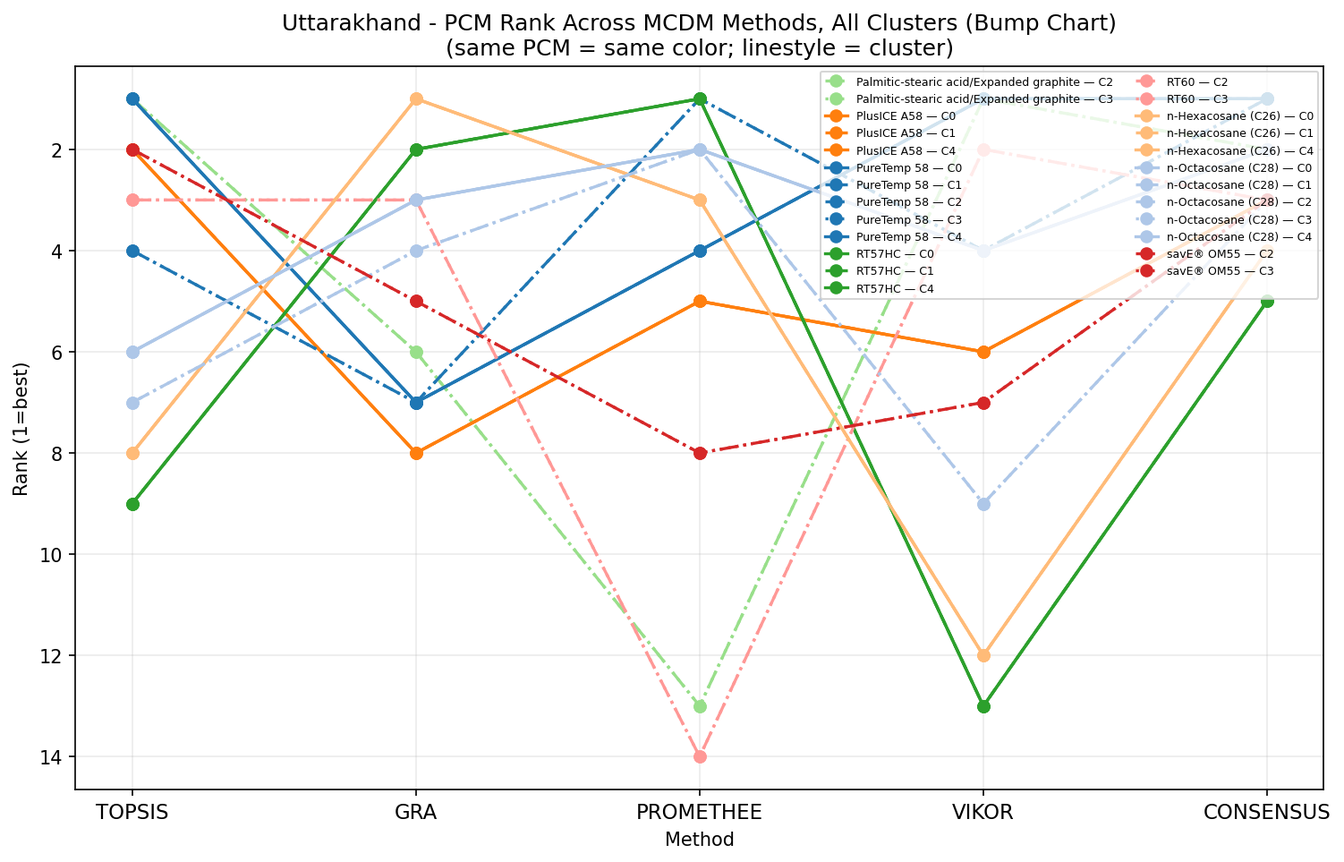
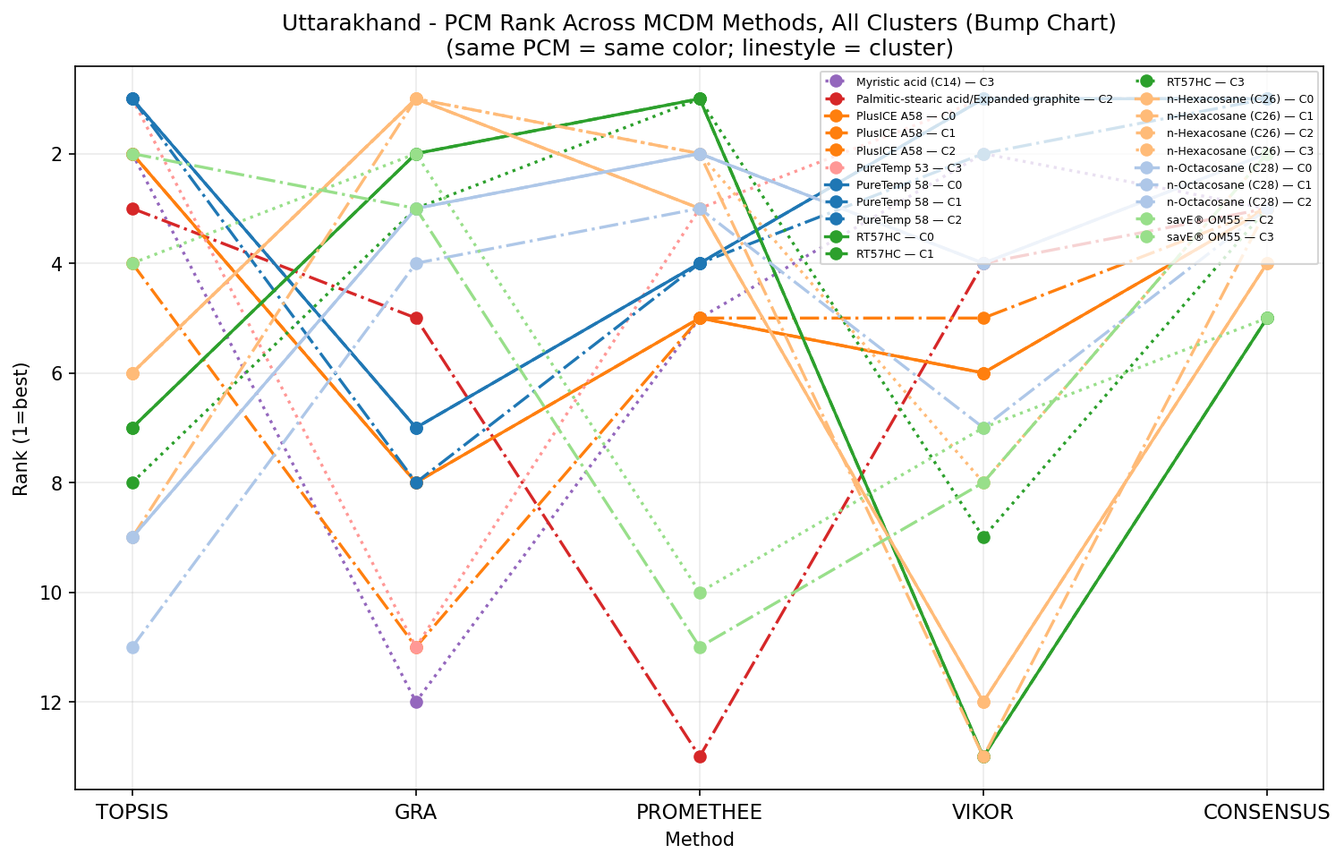
chore(plots): update Uttarakhand all-cluster MCDM bump chart (K=4)

diff --git a/public/plots/uttarakhand/07_bump_chart_ranks.html b/public/plots/uttarakhand/07_bump_chart_ranks.html
@@ -6,6 +6,6 @@
 </head>
 <body>
     <div style="height:550px; width:100%;">                        <script>window.PlotlyConfig = {MathJaxConfig: 'local'};</script>
-        <script charset="utf-8" src="https://cdn.plot.ly/plotly-4.0.0.min.js" integrity="sha256-FEYfO0yRyLtZCpnW0Dw/0DHKQO7Afrq3ml4+rBB818o=" crossorigin="anonymous"></script>                <div id="c2ea9947-62c5-475e-9ff9-8340a1033bda" class="plotly-graph-div" style="height:100%; width:100%;"></div>            <script>                window.PLOTLYENV=window.PLOTLYENV || {};                                if (document.getElementById("c2ea9947-62c5-475e-9ff9-8340a1033bda")) {                    Plotly.newPlot(                        "c2ea9947-62c5-475e-9ff9-8340a1033bda",                        [{"customdata":[["0","PureTemp 58"],["0","PureTemp 58"],["0","PureTemp 58"],["0","PureTemp 58"],["0","PureTemp 58"]],"hovertemplate":"Name=%{customdata[1]}\u003cbr\u003eSeries=PureTemp 58 — C0\u003cbr\u003eMethod=%{x}\u003cbr\u003eRank=%{y}\u003cbr\u003eCluster=%{customdata[0]}\u003cextra\u003e\u003c\u002fextra\u003e","legendgroup":"PureTemp 58","line":{"color":"#FD3216","dash":"solid"},"marker":{"symbol":"circle"},"mode":"lines+markers","name":"PureTemp 58","orientation":"v","showlegend":true,"x":["TOPSIS","GRA","PROMETHEE","VIKOR","CONSENSUS"],"xaxis":"x","y":{"dtype":"i1","bdata":"AQcEAQE="},"yaxis":"y","type":"scatter"},{"customdata":[["1","PureTemp 58"],["1","PureTemp 58"],["1","PureTemp 58"],["1","PureTemp 58"],["1","PureTemp 58"]],"hovertemplate":"Name=%{customdata[1]}\u003cbr\u003eSeries=PureTemp 58 — C1\u003cbr\u003eMethod=%{x}\u003cbr\u003eRank=%{y}\u003cbr\u003eCluster=%{customdata[0]}\u003cextra\u003e\u003c\u002fextra\u003e","legendgroup":"PureTemp 58","line":{"color":"#FD3216","dash":"solid"},"marker":{"symbol":"circle"},"mode":"lines+markers","name":"PureTemp 58","orientation":"v","showlegend":false,"x":["TOPSIS","GRA","PROMETHEE","VIKOR","CONSENSUS"],"xaxis":"x","y":{"dtype":"i1","bdata":"AQcEAQE="},"yaxis":"y","type":"scatter"},{"customdata":[["2","PureTemp 58"],["2","PureTemp 58"],["2","PureTemp 58"],["2","PureTemp 58"],["2","PureTemp 58"]],"hovertemplate":"Name=%{customdata[1]}\u003cbr\u003eSeries=PureTemp 58 — C2\u003cbr\u003eMethod=%{x}\u003cbr\u003eRank=%{y}\u003cbr\u003eCluster=%{customdata[0]}\u003cextra\u003e\u003c\u002fextra\u003e","legendgroup":"PureTemp 58","line":{"color":"#FD3216","dash":"solid"},"marker":{"symbol":"circle"},"mode":"lines+markers","name":"PureTemp 58","orientation":"v","showlegend":false,"x":["TOPSIS","GRA","PROMETHEE","VIKOR","CONSENSUS"],"xaxis":"x","y":{"dtype":"i1","bdata":"BAcBBAE="},"yaxis":"y","type":"scatter"},{"customdata":[["3","PureTemp 58"],["3","PureTemp 58"],["3","PureTemp 58"],["3","PureTemp 58"],["3","PureTemp 58"]],"hovertemplate":"Name=%{customdata[1]}\u003cbr\u003eSeries=PureTemp 58 — C3\u003cbr\u003eMethod=%{x}\u003cbr\u003eRank=%{y}\u003cbr\u003eCluster=%{customdata[0]}\u003cextra\u003e\u003c\u002fextra\u003e","legendgroup":"PureTemp 58","line":{"color":"#FD3216","dash":"solid"},"marker":{"symbol":"circle"},"mode":"lines+markers","name":"PureTemp 58","orientation":"v","showlegend":false,"x":["TOPSIS","GRA","PROMETHEE","VIKOR","CONSENSUS"],"xaxis":"x","y":{"dtype":"i1","bdata":"BAcBBAE="},"yaxis":"y","type":"scatter"},{"customdata":[["4","PureTemp 58"],["4","PureTemp 58"],["4","PureTemp 58"],["4","PureTemp 58"],["4","PureTemp 58"]],"hovertemplate":"Name=%{customdata[1]}\u003cbr\u003eSeries=PureTemp 58 — C4\u003cbr\u003eMethod=%{x}\u003cbr\u003eRank=%{y}\u003cbr\u003eCluster=%{customdata[0]}\u003cextra\u003e\u003c\u002fextra\u003e","legendgroup":"PureTemp 58","line":{"color":"#FD3216","dash":"solid"},"marker":{"symbol":"circle"},"mode":"lines+markers","name":"PureTemp 58","orientation":"v","showlegend":false,"x":["TOPSIS","GRA","PROMETHEE","VIKOR","CONSENSUS"],"xaxis":"x","y":{"dtype":"i1","bdata":"AQcEAQE="},"yaxis":"y","type":"scatter"},{"customdata":[["0","n-Octacosane (C28)"],["0","n-Octacosane (C28)"],["0","n-Octacosane (C28)"],["0","n-Octacosane (C28)"],["0","n-Octacosane (C28)"]],"hovertemplate":"Name=%{customdata[1]}\u003cbr\u003eSeries=n-Octacosane (C28) — C0\u003cbr\u003eMethod=%{x}\u003cbr\u003eRank=%{y}\u003cbr\u003eCluster=%{customdata[0]}\u003cextra\u003e\u003c\u002fextra\u003e","legendgroup":"n-Octacosane (C28)","line":{"color":"#00FE35","dash":"solid"},"marker":{"symbol":"circle"},"mode":"lines+markers","name":"n-Octacosane (C28)","orientation":"v","showlegend":true,"x":["TOPSIS","GRA","PROMETHEE","VIKOR","CONSENSUS"],"xaxis":"x","y":{"dtype":"i1","bdata":"BgMCBAI="},"yaxis":"y","type":"scatter"},{"customdata":[["1","n-Octacosane (C28)"],["1","n-Octacosane (C28)"],["1","n-Octacosane (C28)"],["1","n-Octacosane (C28)"],["1","n-Octacosane (C28)"]],"hovertemplate":"Name=%{customdata[1]}\u003cbr\u003eSeries=n-Octacosane (C28) — C1\u003cbr\u003eMethod=%{x}\u003cbr\u003eRank=%{y}\u003cbr\u003eCluster=%{customdata[0]}\u003cextra\u003e\u003c\u002fextra\u003e","legendgroup":"n-Octacosane (C28)","line":{"color":"#00FE35","dash":"solid"},"marker":{"symbol":"circle"},"mode":"lines+markers","name":"n-Octacosane (C28)","orientation":"v","showlegend":false,"x":["TOPSIS","GRA","PROMETHEE","VIKOR","CONSENSUS"],"xaxis":"x","y":{"dtype":"i1","bdata":"BgMCBAI="},"yaxis":"y","type":"scatter"},{"customdata":[["2","n-Octacosane (C28)"],["2","n-Octacosane (C28)"],["2","n-Octacosane (C28)"],["2","n-Octacosane (C28)"],["2","n-Octacosane (C28)"]],"hovertemplate":"Name=%{customdata[1]}\u003cbr\u003eSeries=n-Octacosane (C28) — C2\u003cbr\u003eMethod=%{x}\u003cbr\u003eRank=%{y}\u003cbr\u003eCluster=%{customdata[0]}\u003cextra\u003e\u003c\u002fextra\u003e","legendgroup":"n-Octacosane (C28)","line":{"color":"#00FE35","dash":"solid"},"marker":{"symbol":"circle"},"mode":"lines+markers","name":"n-Octacosane (C28)","orientation":"v","showlegend":false,"x":["TOPSIS","GRA","PROMETHEE","VIKOR","CONSENSUS"],"xaxis":"x","y":{"dtype":"i1","bdata":"BwQCCQM="},"yaxis":"y","type":"scatter"},{"customdata":[["3","n-Octacosane (C28)"],["3","n-Octacosane (C28)"],["3","n-Octacosane (C28)"],["3","n-Octacosane (C28)"],["3","n-Octacosane (C28)"]],"hovertemplate":"Name=%{customdata[1]}\u003cbr\u003eSeries=n-Octacosane (C28) — C3\u003cbr\u003eMethod=%{x}\u003cbr\u003eRank=%{y}\u003cbr\u003eCluster=%{customdata[0]}\u003cextra\u003e\u003c\u002fextra\u003e","legendgroup":"n-Octacosane (C28)","line":{"color":"#00FE35","dash":"solid"},"marker":{"symbol":"circle"},"mode":"lines+markers","name":"n-Octacosane (C28)","orientation":"v","showlegend":false,"x":["TOPSIS","GRA","PROMETHEE","VIKOR","CONSENSUS"],"xaxis":"x","y":{"dtype":"i1","bdata":"BwQCCQM="},"yaxis":"y","type":"scatter"},{"customdata":[["4","n-Octacosane (C28)"],["4","n-Octacosane (C28)"],["4","n-Octacosane (C28)"],["4","n-Octacosane (C28)"],["4","n-Octacosane (C28)"]],"hovertemplate":"Name=%{customdata[1]}\u003cbr\u003eSeries=n-Octacosane (C28) — C4\u003cbr\u003eMethod=%{x}\u003cbr\u003eRank=%{y}\u003cbr\u003eCluster=%{customdata[0]}\u003cextra\u003e\u003c\u002fextra\u003e","legendgroup":"n-Octacosane (C28)","line":{"color":"#00FE35","dash":"solid"},"marker":{"symbol":"circle"},"mode":"lines+markers","name":"n-Octacosane (C28)","orientation":"v","showlegend":false,"x":["TOPSIS","GRA","PROMETHEE","VIKOR","CONSENSUS"],"xaxis":"x","y":{"dtype":"i1","bdata":"BgMCBAI="},"yaxis":"y","type":"scatter"},{"customdata":[["0","PlusICE A58"],["0","PlusICE A58"],["0","PlusICE A58"],["0","PlusICE A58"],["0","PlusICE A58"]],"hovertemplate":"Name=%{customdata[1]}\u003cbr\u003eSeries=PlusICE A58 — C0\u003cbr\u003eMethod=%{x}\u003cbr\u003eRank=%{y}\u003cbr\u003eCluster=%{customdata[0]}\u003cextra\u003e\u003c\u002fextra\u003e","legendgroup":"PlusICE A58","line":{"color":"#6A76FC","dash":"solid"},"marker":{"symbol":"circle"},"mode":"lines+markers","name":"PlusICE A58","orientation":"v","showlegend":true,"x":["TOPSIS","GRA","PROMETHEE","VIKOR","CONSENSUS"],"xaxis":"x","y":{"dtype":"i1","bdata":"AggFBgM="},"yaxis":"y","type":"scatter"},{"customdata":[["1","PlusICE A58"],["1","PlusICE A58"],["1","PlusICE A58"],["1","PlusICE A58"],["1","PlusICE A58"]],"hovertemplate":"Name=%{customdata[1]}\u003cbr\u003eSeries=PlusICE A58 — C1\u003cbr\u003eMethod=%{x}\u003cbr\u003eRank=%{y}\u003cbr\u003eCluster=%{customdata[0]}\u003cextra\u003e\u003c\u002fextra\u003e","legendgroup":"PlusICE A58","line":{"color":"#6A76FC","dash":"solid"},"marker":{"symbol":"circle"},"mode":"lines+markers","name":"PlusICE A58","orientation":"v","showlegend":false,"x":["TOPSIS","GRA","PROMETHEE","VIKOR","CONSENSUS"],"xaxis":"x","y":{"dtype":"i1","bdata":"AggFBgM="},"yaxis":"y","type":"scatter"},{"customdata":[["4","PlusICE A58"],["4","PlusICE A58"],["4","PlusICE A58"],["4","PlusICE A58"],["4","PlusICE A58"]],"hovertemplate":"Name=%{customdata[1]}\u003cbr\u003eSeries=PlusICE A58 — C4\u003cbr\u003eMethod=%{x}\u003cbr\u003eRank=%{y}\u003cbr\u003eCluster=%{customdata[0]}\u003cextra\u003e\u003c\u002fextra\u003e","legendgroup":"PlusICE A58","line":{"color":"#6A76FC","dash":"solid"},"marker":{"symbol":"circle"},"mode":"lines+markers","name":"PlusICE A58","orientation":"v","showlegend":false,"x":["TOPSIS","GRA","PROMETHEE","VIKOR","CONSENSUS"],"xaxis":"x","y":{"dtype":"i1","bdata":"AggFBgM="},"yaxis":"y","type":"scatter"},{"customdata":[["0","n-Hexacosane (C26)"],["0","n-Hexacosane (C26)"],["0","n-Hexacosane (C26)"],["0","n-Hexacosane (C26)"],["0","n-Hexacosane (C26)"]],"hovertemplate":"Name=%{customdata[1]}\u003cbr\u003eSeries=n-Hexacosane (C26) — C0\u003cbr\u003eMethod=%{x}\u003cbr\u003eRank=%{y}\u003cbr\u003eCluster=%{customdata[0]}\u003cextra\u003e\u003c\u002fextra\u003e","legendgroup":"n-Hexacosane (C26)","line":{"color":"#FED4C4","dash":"solid"},"marker":{"symbol":"circle"},"mode":"lines+markers","name":"n-Hexacosane (C26)","orientation":"v","showlegend":true,"x":["TOPSIS","GRA","PROMETHEE","VIKOR","CONSENSUS"],"xaxis":"x","y":{"dtype":"i1","bdata":"CAEDDAQ="},"yaxis":"y","type":"scatter"},{"customdata":[["1","n-Hexacosane (C26)"],["1","n-Hexacosane (C26)"],["1","n-Hexacosane (C26)"],["1","n-Hexacosane (C26)"],["1","n-Hexacosane (C26)"]],"hovertemplate":"Name=%{customdata[1]}\u003cbr\u003eSeries=n-Hexacosane (C26) — C1\u003cbr\u003eMethod=%{x}\u003cbr\u003eRank=%{y}\u003cbr\u003eCluster=%{customdata[0]}\u003cextra\u003e\u003c\u002fextra\u003e","legendgroup":"n-Hexacosane (C26)","line":{"color":"#FED4C4","dash":"solid"},"marker":{"symbol":"circle"},"mode":"lines+markers","name":"n-Hexacosane (C26)","orientation":"v","showlegend":false,"x":["TOPSIS","GRA","PROMETHEE","VIKOR","CONSENSUS"],"xaxis":"x","y":{"dtype":"i1","bdata":"CAEDDAQ="},"yaxis":"y","type":"scatter"},{"customdata":[["4","n-Hexacosane (C26)"],["4","n-Hexacosane (C26)"],["4","n-Hexacosane (C26)"],["4","n-Hexacosane (C26)"],["4","n-Hexacosane (C26)"]],"hovertemplate":"Name=%{customdata[1]}\u003cbr\u003eSeries=n-Hexacosane (C26) — C4\u003cbr\u003eMethod=%{x}\u003cbr\u003eRank=%{y}\u003cbr\u003eCluster=%{customdata[0]}\u003cextra\u003e\u003c\u002fextra\u003e","legendgroup":"n-Hexacosane (C26)","line":{"color":"#FED4C4","dash":"solid"},"marker":{"symbol":"circle"},"mode":"lines+markers","name":"n-Hexacosane (C26)","orientation":"v","showlegend":false,"x":["TOPSIS","GRA","PROMETHEE","VIKOR","CONSENSUS"],"xaxis":"x","y":{"dtype":"i1","bdata":"CAEDDAQ="},"yaxis":"y","type":"scatter"},{"customdata":[["0","RT57HC"],["0","RT57HC"],["0","RT57HC"],["0","RT57HC"],["0","RT57HC"]],"hovertemplate":"Name=%{customdata[1]}\u003cbr\u003eSeries=RT57HC — C0\u003cbr\u003eMethod=%{x}\u003cbr\u003eRank=%{y}\u003cbr\u003eCluster=%{customdata[0]}\u003cextra\u003e\u003c\u002fextra\u003e","legendgroup":"RT57HC","line":{"color":"#FE00CE","dash":"solid"},"marker":{"symbol":"circle"},"mode":"lines+markers","name":"RT57HC","orientation":"v","showlegend":true,"x":["TOPSIS","GRA","PROMETHEE","VIKOR","CONSENSUS"],"xaxis":"x","y":{"dtype":"i1","bdata":"CQIBDQU="},"yaxis":"y","type":"scatter"},{"customdata":[["1","RT57HC"],["1","RT57HC"],["1","RT57HC"],["1","RT57HC"],["1","RT57HC"]],"hovertemplate":"Name=%{customdata[1]}\u003cbr\u003eSeries=RT57HC — C1\u003cbr\u003eMethod=%{x}\u003cbr\u003eRank=%{y}\u003cbr\u003eCluster=%{customdata[0]}\u003cextra\u003e\u003c\u002fextra\u003e","legendgroup":"RT57HC","line":{"color":"#FE00CE","dash":"solid"},"marker":{"symbol":"circle"},"mode":"lines+markers","name":"RT57HC","orientation":"v","showlegend":false,"x":["TOPSIS","GRA","PROMETHEE","VIKOR","CONSENSUS"],"xaxis":"x","y":{"dtype":"i1","bdata":"CQIBDQU="},"yaxis":"y","type":"scatter"},{"customdata":[["4","RT57HC"],["4","RT57HC"],["4","RT57HC"],["4","RT57HC"],["4","RT57HC"]],"hovertemplate":"Name=%{customdata[1]}\u003cbr\u003eSeries=RT57HC — C4\u003cbr\u003eMethod=%{x}\u003cbr\u003eRank=%{y}\u003cbr\u003eCluster=%{customdata[0]}\u003cextra\u003e\u003c\u002fextra\u003e","legendgroup":"RT57HC","line":{"color":"#FE00CE","dash":"solid"},"marker":{"symbol":"circle"},"mode":"lines+markers","name":"RT57HC","orientation":"v","showlegend":false,"x":["TOPSIS","GRA","PROMETHEE","VIKOR","CONSENSUS"],"xaxis":"x","y":{"dtype":"i1","bdata":"CQIBDQU="},"yaxis":"y","type":"scatter"},{"customdata":[["2","Palmitic-stearic acid\u002fExpanded graphite"],["2","Palmitic-stearic acid\u002fExpanded graphite"],["2","Palmitic-stearic acid\u002fExpanded graphite"],["2","Palmitic-stearic acid\u002fExpanded graphite"],["2","Palmitic-stearic acid\u002fExpanded graphite"]],"hovertemplate":"Name=%{customdata[1]}\u003cbr\u003eSeries=Palmitic-stearic acid\u002fExpanded graphite — C2\u003cbr\u003eMethod=%{x}\u003cbr\u003eRank=%{y}\u003cbr\u003eCluster=%{customdata[0]}\u003cextra\u003e\u003c\u002fextra\u003e","legendgroup":"Palmitic-stearic acid\u002fExpanded graphite","line":{"color":"#0DF9FF","dash":"solid"},"marker":{"symbol":"circle"},"mode":"lines+markers","name":"Palmitic-stearic acid\u002fExpanded graphite","orientation":"v","showlegend":true,"x":["TOPSIS","GRA","PROMETHEE","VIKOR","CONSENSUS"],"xaxis":"x","y":{"dtype":"i1","bdata":"AQYNAQI="},"yaxis":"y","type":"scatter"},{"customdata":[["3","Palmitic-stearic acid\u002fExpanded graphite"],["3","Palmitic-stearic acid\u002fExpanded graphite"],["3","Palmitic-stearic acid\u002fExpanded graphite"],["3","Palmitic-stearic acid\u002fExpanded graphite"],["3","Palmitic-stearic acid\u002fExpanded graphite"]],"hovertemplate":"Name=%{customdata[1]}\u003cbr\u003eSeries=Palmitic-stearic acid\u002fExpanded graphite — C3\u003cbr\u003eMethod=%{x}\u003cbr\u003eRank=%{y}\u003cbr\u003eCluster=%{customdata[0]}\u003cextra\u003e\u003c\u002fextra\u003e","legendgroup":"Palmitic-stearic acid\u002fExpanded graphite","line":{"color":"#0DF9FF","dash":"solid"},"marker":{"symbol":"circle"},"mode":"lines+markers","name":"Palmitic-stearic acid\u002fExpanded graphite","orientation":"v","showlegend":false,"x":["TOPSIS","GRA","PROMETHEE","VIKOR","CONSENSUS"],"xaxis":"x","y":{"dtype":"i1","bdata":"AQYNAQI="},"yaxis":"y","type":"scatter"},{"customdata":[["2","savE® OM55"],["2","savE® OM55"],["2","savE® OM55"],["2","savE® OM55"],["2","savE® OM55"]],"hovertemplate":"Name=%{customdata[1]}\u003cbr\u003eSeries=savE® OM55 — C2\u003cbr\u003eMethod=%{x}\u003cbr\u003eRank=%{y}\u003cbr\u003eCluster=%{customdata[0]}\u003cextra\u003e\u003c\u002fextra\u003e","legendgroup":"savE® OM55","line":{"color":"#F6F926","dash":"solid"},"marker":{"symbol":"circle"},"mode":"lines+markers","name":"savE® OM55","orientation":"v","showlegend":true,"x":["TOPSIS","GRA","PROMETHEE","VIKOR","CONSENSUS"],"xaxis":"x","y":{"dtype":"i1","bdata":"AgUIBwM="},"yaxis":"y","type":"scatter"},{"customdata":[["3","savE® OM55"],["3","savE® OM55"],["3","savE® OM55"],["3","savE® OM55"],["3","savE® OM55"]],"hovertemplate":"Name=%{customdata[1]}\u003cbr\u003eSeries=savE® OM55 — C3\u003cbr\u003eMethod=%{x}\u003cbr\u003eRank=%{y}\u003cbr\u003eCluster=%{customdata[0]}\u003cextra\u003e\u003c\u002fextra\u003e","legendgroup":"savE® OM55","line":{"color":"#F6F926","dash":"solid"},"marker":{"symbol":"circle"},"mode":"lines+markers","name":"savE® OM55","orientation":"v","showlegend":false,"x":["TOPSIS","GRA","PROMETHEE","VIKOR","CONSENSUS"],"xaxis":"x","y":{"dtype":"i1","bdata":"AgUIBwM="},"yaxis":"y","type":"scatter"},{"customdata":[["2","RT60"],["2","RT60"],["2","RT60"],["2","RT60"],["2","RT60"]],"hovertemplate":"Name=%{customdata[1]}\u003cbr\u003eSeries=RT60 — C2\u003cbr\u003eMethod=%{x}\u003cbr\u003eRank=%{y}\u003cbr\u003eCluster=%{customdata[0]}\u003cextra\u003e\u003c\u002fextra\u003e","legendgroup":"RT60","line":{"color":"#FF9616","dash":"solid"},"marker":{"symbol":"circle"},"mode":"lines+markers","name":"RT60","orientation":"v","showlegend":true,"x":["TOPSIS","GRA","PROMETHEE","VIKOR","CONSENSUS"],"xaxis":"x","y":{"dtype":"i1","bdata":"AwMOAgM="},"yaxis":"y","type":"scatter"},{"customdata":[["3","RT60"],["3","RT60"],["3","RT60"],["3","RT60"],["3","RT60"]],"hovertemplate":"Name=%{customdata[1]}\u003cbr\u003eSeries=RT60 — C3\u003cbr\u003eMethod=%{x}\u003cbr\u003eRank=%{y}\u003cbr\u003eCluster=%{customdata[0]}\u003cextra\u003e\u003c\u002fextra\u003e","legendgroup":"RT60","line":{"color":"#FF9616","dash":"solid"},"marker":{"symbol":"circle"},"mode":"lines+markers","name":"RT60","orientation":"v","showlegend":false,"x":["TOPSIS","GRA","PROMETHEE","VIKOR","CONSENSUS"],"xaxis":"x","y":{"dtype":"i1","bdata":"AwMOAgM="},"yaxis":"y","type":"scatter"}],                        {"template":{"data":{"barpolar":[{"marker":{"line":{"color":"white","width":0.5},"pattern":{"fillmode":"overlay","size":10,"solidity":0.2}},"type":"barpolar"}],"bar":[{"error_x":{"color":"#2a3f5f"},"error_y":{"color":"#2a3f5f"},"marker":{"line":{"color":"white","width":0.5},"pattern":{"fillmode":"overlay","size":10,"solidity":0.2}},"type":"bar"}],"carpet":[{"aaxis":{"endlinecolor":"#2a3f5f","gridcolor":"#C8D4E3","linecolor":"#C8D4E3","minorgridcolor":"#C8D4E3","startlinecolor":"#2a3f5f"},"baxis":{"endlinecolor":"#2a3f5f","gridcolor":"#C8D4E3","linecolor":"#C8D4E3","minorgridcolor":"#C8D4E3","startlinecolor":"#2a3f5f"},"type":"carpet"}],"choropleth":[{"colorbar":{"outlinewidth":0,"ticks":""},"type":"choropleth"}],"contourcarpet":[{"colorbar":{"outlinewidth":0,"ticks":""},"type":"contourcarpet"}],"contour":[{"colorbar":{"outlinewidth":0,"ticks":""},"colorscale":[[0.0,"#0d0887"],[0.1111111111111111,"#46039f"],[0.2222222222222222,"#7201a8"],[0.3333333333333333,"#9c179e"],[0.4444444444444444,"#bd3786"],[0.5555555555555556,"#d8576b"],[0.6666666666666666,"#ed7953"],[0.7777777777777778,"#fb9f3a"],[0.8888888888888888,"#fdca26"],[1.0,"#f0f921"]],"type":"contour"}],"heatmap":[{"colorbar":{"outlinewidth":0,"ticks":""},"colorscale":[[0.0,"#0d0887"],[0.1111111111111111,"#46039f"],[0.2222222222222222,"#7201a8"],[0.3333333333333333,"#9c179e"],[0.4444444444444444,"#bd3786"],[0.5555555555555556,"#d8576b"],[0.6666666666666666,"#ed7953"],[0.7777777777777778,"#fb9f3a"],[0.8888888888888888,"#fdca26"],[1.0,"#f0f921"]],"type":"heatmap"}],"histogram2dcontour":[{"colorbar":{"outlinewidth":0,"ticks":""},"colorscale":[[0.0,"#0d0887"],[0.1111111111111111,"#46039f"],[0.2222222222222222,"#7201a8"],[0.3333333333333333,"#9c179e"],[0.4444444444444444,"#bd3786"],[0.5555555555555556,"#d8576b"],[0.6666666666666666,"#ed7953"],[0.7777777777777778,"#fb9f3a"],[0.8888888888888888,"#fdca26"],[1.0,"#f0f921"]],"type":"histogram2dcontour"}],"histogram2d":[{"colorbar":{"outlinewidth":0,"ticks":""},"colorscale":[[0.0,"#0d0887"],[0.1111111111111111,"#46039f"],[0.2222222222222222,"#7201a8"],[0.3333333333333333,"#9c179e"],[0.4444444444444444,"#bd3786"],[0.5555555555555556,"#d8576b"],[0.6666666666666666,"#ed7953"],[0.7777777777777778,"#fb9f3a"],[0.8888888888888888,"#fdca26"],[1.0,"#f0f921"]],"type":"histogram2d"}],"histogram":[{"marker":{"pattern":{"fillmode":"overlay","size":10,"solidity":0.2}},"type":"histogram"}],"mesh3d":[{"colorbar":{"outlinewidth":0,"ticks":""},"type":"mesh3d"}],"parcoords":[{"line":{"colorbar":{"outlinewidth":0,"ticks":""}},"type":"parcoords"}],"pie":[{"automargin":true,"type":"pie"}],"scatter3d":[{"line":{"colorbar":{"outlinewidth":0,"ticks":""}},"marker":{"colorbar":{"outlinewidth":0,"ticks":""}},"type":"scatter3d"}],"scattercarpet":[{"marker":{"colorbar":{"outlinewidth":0,"ticks":""}},"type":"scattercarpet"}],"scattergeo":[{"marker":{"colorbar":{"outlinewidth":0,"ticks":""}},"type":"scattergeo"}],"scattergl":[{"marker":{"colorbar":{"outlinewidth":0,"ticks":""}},"type":"scattergl"}],"scattermap":[{"marker":{"colorbar":{"outlinewidth":0,"ticks":""}},"type":"scattermap"}],"scatterpolargl":[{"marker":{"colorbar":{"outlinewidth":0,"ticks":""}},"type":"scatterpolargl"}],"scatterpolar":[{"marker":{"colorbar":{"outlinewidth":0,"ticks":""}},"type":"scatterpolar"}],"scatter":[{"fillpattern":{"fillmode":"overlay","size":10,"solidity":0.2},"type":"scatter"}],"scatterternary":[{"marker":{"colorbar":{"outlinewidth":0,"ticks":""}},"type":"scatterternary"}],"surface":[{"colorbar":{"outlinewidth":0,"ticks":""},"colorscale":[[0.0,"#0d0887"],[0.1111111111111111,"#46039f"],[0.2222222222222222,"#7201a8"],[0.3333333333333333,"#9c179e"],[0.4444444444444444,"#bd3786"],[0.5555555555555556,"#d8576b"],[0.6666666666666666,"#ed7953"],[0.7777777777777778,"#fb9f3a"],[0.8888888888888888,"#fdca26"],[1.0,"#f0f921"]],"type":"surface"}],"table":[{"cells":{"fill":{"color":"#EBF0F8"},"line":{"color":"white"}},"header":{"fill":{"color":"#C8D4E3"},"line":{"color":"white"}},"type":"table"}]},"layout":{"annotationdefaults":{"arrowcolor":"#2a3f5f","arrowhead":0,"arrowwidth":1},"autotypenumbers":"strict","coloraxis":{"colorbar":{"outlinewidth":0,"ticks":""}},"colorscale":{"diverging":[[0,"#8e0152"],[0.1,"#c51b7d"],[0.2,"#de77ae"],[0.3,"#f1b6da"],[0.4,"#fde0ef"],[0.5,"#f7f7f7"],[0.6,"#e6f5d0"],[0.7,"#b8e186"],[0.8,"#7fbc41"],[0.9,"#4d9221"],[1,"#276419"]],"sequential":[[0.0,"#0d0887"],[0.1111111111111111,"#46039f"],[0.2222222222222222,"#7201a8"],[0.3333333333333333,"#9c179e"],[0.4444444444444444,"#bd3786"],[0.5555555555555556,"#d8576b"],[0.6666666666666666,"#ed7953"],[0.7777777777777778,"#fb9f3a"],[0.8888888888888888,"#fdca26"],[1.0,"#f0f921"]],"sequentialminus":[[0.0,"#0d0887"],[0.1111111111111111,"#46039f"],[0.2222222222222222,"#7201a8"],[0.3333333333333333,"#9c179e"],[0.4444444444444444,"#bd3786"],[0.5555555555555556,"#d8576b"],[0.6666666666666666,"#ed7953"],[0.7777777777777778,"#fb9f3a"],[0.8888888888888888,"#fdca26"],[1.0,"#f0f921"]]},"colorway":["#636efa","#EF553B","#00cc96","#ab63fa","#FFA15A","#19d3f3","#FF6692","#B6E880","#FF97FF","#FECB52"],"font":{"color":"#2a3f5f"},"geo":{"bgcolor":"white","lakecolor":"white","landcolor":"white","showlakes":true,"showland":true,"subunitcolor":"#C8D4E3"},"hoverlabel":{"align":"left"},"hovermode":"closest","paper_bgcolor":"white","plot_bgcolor":"white","polar":{"angularaxis":{"gridcolor":"#EBF0F8","linecolor":"#EBF0F8","ticks":""},"bgcolor":"white","radialaxis":{"gridcolor":"#EBF0F8","linecolor":"#EBF0F8","ticks":""}},"scene":{"xaxis":{"backgroundcolor":"white","gridcolor":"#DFE8F3","gridwidth":2,"linecolor":"#EBF0F8","showbackground":true,"ticks":"","zerolinecolor":"#EBF0F8"},"yaxis":{"backgroundcolor":"white","gridcolor":"#DFE8F3","gridwidth":2,"linecolor":"#EBF0F8","showbackground":true,"ticks":"","zerolinecolor":"#EBF0F8"},"zaxis":{"backgroundcolor":"white","gridcolor":"#DFE8F3","gridwidth":2,"linecolor":"#EBF0F8","showbackground":true,"ticks":"","zerolinecolor":"#EBF0F8"}},"shapedefaults":{"line":{"color":"#2a3f5f"}},"ternary":{"aaxis":{"gridcolor":"#DFE8F3","linecolor":"#A2B1C6","ticks":""},"baxis":{"gridcolor":"#DFE8F3","linecolor":"#A2B1C6","ticks":""},"bgcolor":"white","caxis":{"gridcolor":"#DFE8F3","linecolor":"#A2B1C6","ticks":""}},"title":{"x":0.05},"xaxis":{"automargin":true,"gridcolor":"#EBF0F8","linecolor":"#EBF0F8","ticks":"","title":{"standoff":15},"zerolinecolor":"#EBF0F8","zerolinewidth":2},"yaxis":{"automargin":true,"gridcolor":"#EBF0F8","linecolor":"#EBF0F8","ticks":"","title":{"standoff":15},"zerolinecolor":"#EBF0F8","zerolinewidth":2}}},"xaxis":{"anchor":"y","domain":[0.0,1.0],"title":{"text":"Method"}},"yaxis":{"anchor":"x","domain":[0.0,1.0],"title":{"text":"Rank (1=best)"},"autorange":"reversed"},"legend":{"title":{"text":"PCM"},"tracegroupgap":0},"title":{"text":"Uttarakhand PCM - Rank Across MCDM Methods, All Clusters (Top 5 per Cluster)"},"height":550},                        {"responsive": true}                    )                };            </script>        </div>
+        <script charset="utf-8" src="https://cdn.plot.ly/plotly-4.0.0.min.js" integrity="sha256-FEYfO0yRyLtZCpnW0Dw/0DHKQO7Afrq3ml4+rBB818o=" crossorigin="anonymous"></script>                <div id="510cb3e8-fcbe-48f2-8db4-c870f1be6408" class="plotly-graph-div" style="height:100%; width:100%;"></div>            <script>                window.PLOTLYENV=window.PLOTLYENV || {};                                if (document.getElementById("510cb3e8-fcbe-48f2-8db4-c870f1be6408")) {                    Plotly.newPlot(                        "510cb3e8-fcbe-48f2-8db4-c870f1be6408",                        [{"customdata":[["0","PureTemp 58"],["0","PureTemp 58"],["0","PureTemp 58"],["0","PureTemp 58"],["0","PureTemp 58"]],"hovertemplate":"Name=%{customdata[1]}\u003cbr\u003eSeries=PureTemp 58 — C0\u003cbr\u003eMethod=%{x}\u003cbr\u003eRank=%{y}\u003cbr\u003eCluster=%{customdata[0]}\u003cextra\u003e\u003c\u002fextra\u003e","legendgroup":"PureTemp 58","line":{"color":"#FD3216","dash":"solid"},"marker":{"symbol":"circle"},"mode":"lines+markers","name":"PureTemp 58","orientation":"v","showlegend":true,"x":["TOPSIS","GRA","PROMETHEE","VIKOR","CONSENSUS"],"xaxis":"x","y":{"dtype":"i1","bdata":"AQcEAQE="},"yaxis":"y","type":"scatter"},{"customdata":[["1","PureTemp 58"],["1","PureTemp 58"],["1","PureTemp 58"],["1","PureTemp 58"],["1","PureTemp 58"]],"hovertemplate":"Name=%{customdata[1]}\u003cbr\u003eSeries=PureTemp 58 — C1\u003cbr\u003eMethod=%{x}\u003cbr\u003eRank=%{y}\u003cbr\u003eCluster=%{customdata[0]}\u003cextra\u003e\u003c\u002fextra\u003e","legendgroup":"PureTemp 58","line":{"color":"#FD3216","dash":"solid"},"marker":{"symbol":"circle"},"mode":"lines+markers","name":"PureTemp 58","orientation":"v","showlegend":false,"x":["TOPSIS","GRA","PROMETHEE","VIKOR","CONSENSUS"],"xaxis":"x","y":{"dtype":"i1","bdata":"AQcEAQE="},"yaxis":"y","type":"scatter"},{"customdata":[["2","PureTemp 58"],["2","PureTemp 58"],["2","PureTemp 58"],["2","PureTemp 58"],["2","PureTemp 58"]],"hovertemplate":"Name=%{customdata[1]}\u003cbr\u003eSeries=PureTemp 58 — C2\u003cbr\u003eMethod=%{x}\u003cbr\u003eRank=%{y}\u003cbr\u003eCluster=%{customdata[0]}\u003cextra\u003e\u003c\u002fextra\u003e","legendgroup":"PureTemp 58","line":{"color":"#FD3216","dash":"solid"},"marker":{"symbol":"circle"},"mode":"lines+markers","name":"PureTemp 58","orientation":"v","showlegend":false,"x":["TOPSIS","GRA","PROMETHEE","VIKOR","CONSENSUS"],"xaxis":"x","y":{"dtype":"i1","bdata":"AQgEAgE="},"yaxis":"y","type":"scatter"},{"customdata":[["0","n-Octacosane (C28)"],["0","n-Octacosane (C28)"],["0","n-Octacosane (C28)"],["0","n-Octacosane (C28)"],["0","n-Octacosane (C28)"]],"hovertemplate":"Name=%{customdata[1]}\u003cbr\u003eSeries=n-Octacosane (C28) — C0\u003cbr\u003eMethod=%{x}\u003cbr\u003eRank=%{y}\u003cbr\u003eCluster=%{customdata[0]}\u003cextra\u003e\u003c\u002fextra\u003e","legendgroup":"n-Octacosane (C28)","line":{"color":"#00FE35","dash":"solid"},"marker":{"symbol":"circle"},"mode":"lines+markers","name":"n-Octacosane (C28)","orientation":"v","showlegend":true,"x":["TOPSIS","GRA","PROMETHEE","VIKOR","CONSENSUS"],"xaxis":"x","y":{"dtype":"i1","bdata":"CQMCBAI="},"yaxis":"y","type":"scatter"},{"customdata":[["1","n-Octacosane (C28)"],["1","n-Octacosane (C28)"],["1","n-Octacosane (C28)"],["1","n-Octacosane (C28)"],["1","n-Octacosane (C28)"]],"hovertemplate":"Name=%{customdata[1]}\u003cbr\u003eSeries=n-Octacosane (C28) — C1\u003cbr\u003eMethod=%{x}\u003cbr\u003eRank=%{y}\u003cbr\u003eCluster=%{customdata[0]}\u003cextra\u003e\u003c\u002fextra\u003e","legendgroup":"n-Octacosane (C28)","line":{"color":"#00FE35","dash":"solid"},"marker":{"symbol":"circle"},"mode":"lines+markers","name":"n-Octacosane (C28)","orientation":"v","showlegend":false,"x":["TOPSIS","GRA","PROMETHEE","VIKOR","CONSENSUS"],"xaxis":"x","y":{"dtype":"i1","bdata":"CQMCBAI="},"yaxis":"y","type":"scatter"},{"customdata":[["2","n-Octacosane (C28)"],["2","n-Octacosane (C28)"],["2","n-Octacosane (C28)"],["2","n-Octacosane (C28)"],["2","n-Octacosane (C28)"]],"hovertemplate":"Name=%{customdata[1]}\u003cbr\u003eSeries=n-Octacosane (C28) — C2\u003cbr\u003eMethod=%{x}\u003cbr\u003eRank=%{y}\u003cbr\u003eCluster=%{customdata[0]}\u003cextra\u003e\u003c\u002fextra\u003e","legendgroup":"n-Octacosane (C28)","line":{"color":"#00FE35","dash":"solid"},"marker":{"symbol":"circle"},"mode":"lines+markers","name":"n-Octacosane (C28)","orientation":"v","showlegend":false,"x":["TOPSIS","GRA","PROMETHEE","VIKOR","CONSENSUS"],"xaxis":"x","y":{"dtype":"i1","bdata":"CwQDBwM="},"yaxis":"y","type":"scatter"},{"customdata":[["0","PlusICE A58"],["0","PlusICE A58"],["0","PlusICE A58"],["0","PlusICE A58"],["0","PlusICE A58"]],"hovertemplate":"Name=%{customdata[1]}\u003cbr\u003eSeries=PlusICE A58 — C0\u003cbr\u003eMethod=%{x}\u003cbr\u003eRank=%{y}\u003cbr\u003eCluster=%{customdata[0]}\u003cextra\u003e\u003c\u002fextra\u003e","legendgroup":"PlusICE A58","line":{"color":"#6A76FC","dash":"solid"},"marker":{"symbol":"circle"},"mode":"lines+markers","name":"PlusICE A58","orientation":"v","showlegend":true,"x":["TOPSIS","GRA","PROMETHEE","VIKOR","CONSENSUS"],"xaxis":"x","y":{"dtype":"i1","bdata":"AggFBgM="},"yaxis":"y","type":"scatter"},{"customdata":[["1","PlusICE A58"],["1","PlusICE A58"],["1","PlusICE A58"],["1","PlusICE A58"],["1","PlusICE A58"]],"hovertemplate":"Name=%{customdata[1]}\u003cbr\u003eSeries=PlusICE A58 — C1\u003cbr\u003eMethod=%{x}\u003cbr\u003eRank=%{y}\u003cbr\u003eCluster=%{customdata[0]}\u003cextra\u003e\u003c\u002fextra\u003e","legendgroup":"PlusICE A58","line":{"color":"#6A76FC","dash":"solid"},"marker":{"symbol":"circle"},"mode":"lines+markers","name":"PlusICE A58","orientation":"v","showlegend":false,"x":["TOPSIS","GRA","PROMETHEE","VIKOR","CONSENSUS"],"xaxis":"x","y":{"dtype":"i1","bdata":"AggFBgM="},"yaxis":"y","type":"scatter"},{"customdata":[["2","PlusICE A58"],["2","PlusICE A58"],["2","PlusICE A58"],["2","PlusICE A58"],["2","PlusICE A58"]],"hovertemplate":"Name=%{customdata[1]}\u003cbr\u003eSeries=PlusICE A58 — C2\u003cbr\u003eMethod=%{x}\u003cbr\u003eRank=%{y}\u003cbr\u003eCluster=%{customdata[0]}\u003cextra\u003e\u003c\u002fextra\u003e","legendgroup":"PlusICE A58","line":{"color":"#6A76FC","dash":"solid"},"marker":{"symbol":"circle"},"mode":"lines+markers","name":"PlusICE A58","orientation":"v","showlegend":false,"x":["TOPSIS","GRA","PROMETHEE","VIKOR","CONSENSUS"],"xaxis":"x","y":{"dtype":"i1","bdata":"BAsFBQM="},"yaxis":"y","type":"scatter"},{"customdata":[["0","n-Hexacosane (C26)"],["0","n-Hexacosane (C26)"],["0","n-Hexacosane (C26)"],["0","n-Hexacosane (C26)"],["0","n-Hexacosane (C26)"]],"hovertemplate":"Name=%{customdata[1]}\u003cbr\u003eSeries=n-Hexacosane (C26) — C0\u003cbr\u003eMethod=%{x}\u003cbr\u003eRank=%{y}\u003cbr\u003eCluster=%{customdata[0]}\u003cextra\u003e\u003c\u002fextra\u003e","legendgroup":"n-Hexacosane (C26)","line":{"color":"#FED4C4","dash":"solid"},"marker":{"symbol":"circle"},"mode":"lines+markers","name":"n-Hexacosane (C26)","orientation":"v","showlegend":true,"x":["TOPSIS","GRA","PROMETHEE","VIKOR","CONSENSUS"],"xaxis":"x","y":{"dtype":"i1","bdata":"BgEDDAQ="},"yaxis":"y","type":"scatter"},{"customdata":[["1","n-Hexacosane (C26)"],["1","n-Hexacosane (C26)"],["1","n-Hexacosane (C26)"],["1","n-Hexacosane (C26)"],["1","n-Hexacosane (C26)"]],"hovertemplate":"Name=%{customdata[1]}\u003cbr\u003eSeries=n-Hexacosane (C26) — C1\u003cbr\u003eMethod=%{x}\u003cbr\u003eRank=%{y}\u003cbr\u003eCluster=%{customdata[0]}\u003cextra\u003e\u003c\u002fextra\u003e","legendgroup":"n-Hexacosane (C26)","line":{"color":"#FED4C4","dash":"solid"},"marker":{"symbol":"circle"},"mode":"lines+markers","name":"n-Hexacosane (C26)","orientation":"v","showlegend":false,"x":["TOPSIS","GRA","PROMETHEE","VIKOR","CONSENSUS"],"xaxis":"x","y":{"dtype":"i1","bdata":"BgEDDAQ="},"yaxis":"y","type":"scatter"},{"customdata":[["2","n-Hexacosane (C26)"],["2","n-Hexacosane (C26)"],["2","n-Hexacosane (C26)"],["2","n-Hexacosane (C26)"],["2","n-Hexacosane (C26)"]],"hovertemplate":"Name=%{customdata[1]}\u003cbr\u003eSeries=n-Hexacosane (C26) — C2\u003cbr\u003eMethod=%{x}\u003cbr\u003eRank=%{y}\u003cbr\u003eCluster=%{customdata[0]}\u003cextra\u003e\u003c\u002fextra\u003e","legendgroup":"n-Hexacosane (C26)","line":{"color":"#FED4C4","dash":"solid"},"marker":{"symbol":"circle"},"mode":"lines+markers","name":"n-Hexacosane (C26)","orientation":"v","showlegend":false,"x":["TOPSIS","GRA","PROMETHEE","VIKOR","CONSENSUS"],"xaxis":"x","y":{"dtype":"i1","bdata":"CQECDQM="},"yaxis":"y","type":"scatter"},{"customdata":[["3","n-Hexacosane (C26)"],["3","n-Hexacosane (C26)"],["3","n-Hexacosane (C26)"],["3","n-Hexacosane (C26)"],["3","n-Hexacosane (C26)"]],"hovertemplate":"Name=%{customdata[1]}\u003cbr\u003eSeries=n-Hexacosane (C26) — C3\u003cbr\u003eMethod=%{x}\u003cbr\u003eRank=%{y}\u003cbr\u003eCluster=%{customdata[0]}\u003cextra\u003e\u003c\u002fextra\u003e","legendgroup":"n-Hexacosane (C26)","line":{"color":"#FED4C4","dash":"solid"},"marker":{"symbol":"circle"},"mode":"lines+markers","name":"n-Hexacosane (C26)","orientation":"v","showlegend":false,"x":["TOPSIS","GRA","PROMETHEE","VIKOR","CONSENSUS"],"xaxis":"x","y":{"dtype":"i1","bdata":"BgECCAI="},"yaxis":"y","type":"scatter"},{"customdata":[["0","RT57HC"],["0","RT57HC"],["0","RT57HC"],["0","RT57HC"],["0","RT57HC"]],"hovertemplate":"Name=%{customdata[1]}\u003cbr\u003eSeries=RT57HC — C0\u003cbr\u003eMethod=%{x}\u003cbr\u003eRank=%{y}\u003cbr\u003eCluster=%{customdata[0]}\u003cextra\u003e\u003c\u002fextra\u003e","legendgroup":"RT57HC","line":{"color":"#FE00CE","dash":"solid"},"marker":{"symbol":"circle"},"mode":"lines+markers","name":"RT57HC","orientation":"v","showlegend":true,"x":["TOPSIS","GRA","PROMETHEE","VIKOR","CONSENSUS"],"xaxis":"x","y":{"dtype":"i1","bdata":"BwIBDQU="},"yaxis":"y","type":"scatter"},{"customdata":[["1","RT57HC"],["1","RT57HC"],["1","RT57HC"],["1","RT57HC"],["1","RT57HC"]],"hovertemplate":"Name=%{customdata[1]}\u003cbr\u003eSeries=RT57HC — C1\u003cbr\u003eMethod=%{x}\u003cbr\u003eRank=%{y}\u003cbr\u003eCluster=%{customdata[0]}\u003cextra\u003e\u003c\u002fextra\u003e","legendgroup":"RT57HC","line":{"color":"#FE00CE","dash":"solid"},"marker":{"symbol":"circle"},"mode":"lines+markers","name":"RT57HC","orientation":"v","showlegend":false,"x":["TOPSIS","GRA","PROMETHEE","VIKOR","CONSENSUS"],"xaxis":"x","y":{"dtype":"i1","bdata":"BwIBDQU="},"yaxis":"y","type":"scatter"},{"customdata":[["3","RT57HC"],["3","RT57HC"],["3","RT57HC"],["3","RT57HC"],["3","RT57HC"]],"hovertemplate":"Name=%{customdata[1]}\u003cbr\u003eSeries=RT57HC — C3\u003cbr\u003eMethod=%{x}\u003cbr\u003eRank=%{y}\u003cbr\u003eCluster=%{customdata[0]}\u003cextra\u003e\u003c\u002fextra\u003e","legendgroup":"RT57HC","line":{"color":"#FE00CE","dash":"solid"},"marker":{"symbol":"circle"},"mode":"lines+markers","name":"RT57HC","orientation":"v","showlegend":false,"x":["TOPSIS","GRA","PROMETHEE","VIKOR","CONSENSUS"],"xaxis":"x","y":{"dtype":"i1","bdata":"CAMBCQM="},"yaxis":"y","type":"scatter"},{"customdata":[["2","savE® OM55"],["2","savE® OM55"],["2","savE® OM55"],["2","savE® OM55"],["2","savE® OM55"]],"hovertemplate":"Name=%{customdata[1]}\u003cbr\u003eSeries=savE® OM55 — C2\u003cbr\u003eMethod=%{x}\u003cbr\u003eRank=%{y}\u003cbr\u003eCluster=%{customdata[0]}\u003cextra\u003e\u003c\u002fextra\u003e","legendgroup":"savE® OM55","line":{"color":"#0DF9FF","dash":"solid"},"marker":{"symbol":"circle"},"mode":"lines+markers","name":"savE® OM55","orientation":"v","showlegend":true,"x":["TOPSIS","GRA","PROMETHEE","VIKOR","CONSENSUS"],"xaxis":"x","y":{"dtype":"i1","bdata":"AgMLCAI="},"yaxis":"y","type":"scatter"},{"customdata":[["3","savE® OM55"],["3","savE® OM55"],["3","savE® OM55"],["3","savE® OM55"],["3","savE® OM55"]],"hovertemplate":"Name=%{customdata[1]}\u003cbr\u003eSeries=savE® OM55 — C3\u003cbr\u003eMethod=%{x}\u003cbr\u003eRank=%{y}\u003cbr\u003eCluster=%{customdata[0]}\u003cextra\u003e\u003c\u002fextra\u003e","legendgroup":"savE® OM55","line":{"color":"#0DF9FF","dash":"solid"},"marker":{"symbol":"circle"},"mode":"lines+markers","name":"savE® OM55","orientation":"v","showlegend":false,"x":["TOPSIS","GRA","PROMETHEE","VIKOR","CONSENSUS"],"xaxis":"x","y":{"dtype":"i1","bdata":"BAIKBwU="},"yaxis":"y","type":"scatter"},{"customdata":[["2","Palmitic-stearic acid\u002fExpanded graphite"],["2","Palmitic-stearic acid\u002fExpanded graphite"],["2","Palmitic-stearic acid\u002fExpanded graphite"],["2","Palmitic-stearic acid\u002fExpanded graphite"],["2","Palmitic-stearic acid\u002fExpanded graphite"]],"hovertemplate":"Name=%{customdata[1]}\u003cbr\u003eSeries=Palmitic-stearic acid\u002fExpanded graphite — C2\u003cbr\u003eMethod=%{x}\u003cbr\u003eRank=%{y}\u003cbr\u003eCluster=%{customdata[0]}\u003cextra\u003e\u003c\u002fextra\u003e","legendgroup":"Palmitic-stearic acid\u002fExpanded graphite","line":{"color":"#F6F926","dash":"solid"},"marker":{"symbol":"circle"},"mode":"lines+markers","name":"Palmitic-stearic acid\u002fExpanded graphite","orientation":"v","showlegend":true,"x":["TOPSIS","GRA","PROMETHEE","VIKOR","CONSENSUS"],"xaxis":"x","y":{"dtype":"i1","bdata":"AwUNBAM="},"yaxis":"y","type":"scatter"},{"customdata":[["3","PureTemp 53"],["3","PureTemp 53"],["3","PureTemp 53"],["3","PureTemp 53"],["3","PureTemp 53"]],"hovertemplate":"Name=%{customdata[1]}\u003cbr\u003eSeries=PureTemp 53 — C3\u003cbr\u003eMethod=%{x}\u003cbr\u003eRank=%{y}\u003cbr\u003eCluster=%{customdata[0]}\u003cextra\u003e\u003c\u002fextra\u003e","legendgroup":"PureTemp 53","line":{"color":"#FF9616","dash":"solid"},"marker":{"symbol":"circle"},"mode":"lines+markers","name":"PureTemp 53","orientation":"v","showlegend":true,"x":["TOPSIS","GRA","PROMETHEE","VIKOR","CONSENSUS"],"xaxis":"x","y":{"dtype":"i1","bdata":"AQsDAQE="},"yaxis":"y","type":"scatter"},{"customdata":[["3","Myristic acid (C14)"],["3","Myristic acid (C14)"],["3","Myristic acid (C14)"],["3","Myristic acid (C14)"],["3","Myristic acid (C14)"]],"hovertemplate":"Name=%{customdata[1]}\u003cbr\u003eSeries=Myristic acid (C14) — C3\u003cbr\u003eMethod=%{x}\u003cbr\u003eRank=%{y}\u003cbr\u003eCluster=%{customdata[0]}\u003cextra\u003e\u003c\u002fextra\u003e","legendgroup":"Myristic acid (C14)","line":{"color":"#479B55","dash":"solid"},"marker":{"symbol":"circle"},"mode":"lines+markers","name":"Myristic acid (C14)","orientation":"v","showlegend":true,"x":["TOPSIS","GRA","PROMETHEE","VIKOR","CONSENSUS"],"xaxis":"x","y":{"dtype":"i1","bdata":"AgwFAgM="},"yaxis":"y","type":"scatter"}],                        {"template":{"data":{"barpolar":[{"marker":{"line":{"color":"white","width":0.5},"pattern":{"fillmode":"overlay","size":10,"solidity":0.2}},"type":"barpolar"}],"bar":[{"error_x":{"color":"#2a3f5f"},"error_y":{"color":"#2a3f5f"},"marker":{"line":{"color":"white","width":0.5},"pattern":{"fillmode":"overlay","size":10,"solidity":0.2}},"type":"bar"}],"carpet":[{"aaxis":{"endlinecolor":"#2a3f5f","gridcolor":"#C8D4E3","linecolor":"#C8D4E3","minorgridcolor":"#C8D4E3","startlinecolor":"#2a3f5f"},"baxis":{"endlinecolor":"#2a3f5f","gridcolor":"#C8D4E3","linecolor":"#C8D4E3","minorgridcolor":"#C8D4E3","startlinecolor":"#2a3f5f"},"type":"carpet"}],"choropleth":[{"colorbar":{"outlinewidth":0,"ticks":""},"type":"choropleth"}],"contourcarpet":[{"colorbar":{"outlinewidth":0,"ticks":""},"type":"contourcarpet"}],"contour":[{"colorbar":{"outlinewidth":0,"ticks":""},"colorscale":[[0.0,"#0d0887"],[0.1111111111111111,"#46039f"],[0.2222222222222222,"#7201a8"],[0.3333333333333333,"#9c179e"],[0.4444444444444444,"#bd3786"],[0.5555555555555556,"#d8576b"],[0.6666666666666666,"#ed7953"],[0.7777777777777778,"#fb9f3a"],[0.8888888888888888,"#fdca26"],[1.0,"#f0f921"]],"type":"contour"}],"heatmap":[{"colorbar":{"outlinewidth":0,"ticks":""},"colorscale":[[0.0,"#0d0887"],[0.1111111111111111,"#46039f"],[0.2222222222222222,"#7201a8"],[0.3333333333333333,"#9c179e"],[0.4444444444444444,"#bd3786"],[0.5555555555555556,"#d8576b"],[0.6666666666666666,"#ed7953"],[0.7777777777777778,"#fb9f3a"],[0.8888888888888888,"#fdca26"],[1.0,"#f0f921"]],"type":"heatmap"}],"histogram2dcontour":[{"colorbar":{"outlinewidth":0,"ticks":""},"colorscale":[[0.0,"#0d0887"],[0.1111111111111111,"#46039f"],[0.2222222222222222,"#7201a8"],[0.3333333333333333,"#9c179e"],[0.4444444444444444,"#bd3786"],[0.5555555555555556,"#d8576b"],[0.6666666666666666,"#ed7953"],[0.7777777777777778,"#fb9f3a"],[0.8888888888888888,"#fdca26"],[1.0,"#f0f921"]],"type":"histogram2dcontour"}],"histogram2d":[{"colorbar":{"outlinewidth":0,"ticks":""},"colorscale":[[0.0,"#0d0887"],[0.1111111111111111,"#46039f"],[0.2222222222222222,"#7201a8"],[0.3333333333333333,"#9c179e"],[0.4444444444444444,"#bd3786"],[0.5555555555555556,"#d8576b"],[0.6666666666666666,"#ed7953"],[0.7777777777777778,"#fb9f3a"],[0.8888888888888888,"#fdca26"],[1.0,"#f0f921"]],"type":"histogram2d"}],"histogram":[{"marker":{"pattern":{"fillmode":"overlay","size":10,"solidity":0.2}},"type":"histogram"}],"mesh3d":[{"colorbar":{"outlinewidth":0,"ticks":""},"type":"mesh3d"}],"parcoords":[{"line":{"colorbar":{"outlinewidth":0,"ticks":""}},"type":"parcoords"}],"pie":[{"automargin":true,"type":"pie"}],"scatter3d":[{"line":{"colorbar":{"outlinewidth":0,"ticks":""}},"marker":{"colorbar":{"outlinewidth":0,"ticks":""}},"type":"scatter3d"}],"scattercarpet":[{"marker":{"colorbar":{"outlinewidth":0,"ticks":""}},"type":"scattercarpet"}],"scattergeo":[{"marker":{"colorbar":{"outlinewidth":0,"ticks":""}},"type":"scattergeo"}],"scattergl":[{"marker":{"colorbar":{"outlinewidth":0,"ticks":""}},"type":"scattergl"}],"scattermap":[{"marker":{"colorbar":{"outlinewidth":0,"ticks":""}},"type":"scattermap"}],"scatterpolargl":[{"marker":{"colorbar":{"outlinewidth":0,"ticks":""}},"type":"scatterpolargl"}],"scatterpolar":[{"marker":{"colorbar":{"outlinewidth":0,"ticks":""}},"type":"scatterpolar"}],"scatter":[{"fillpattern":{"fillmode":"overlay","size":10,"solidity":0.2},"type":"scatter"}],"scatterternary":[{"marker":{"colorbar":{"outlinewidth":0,"ticks":""}},"type":"scatterternary"}],"surface":[{"colorbar":{"outlinewidth":0,"ticks":""},"colorscale":[[0.0,"#0d0887"],[0.1111111111111111,"#46039f"],[0.2222222222222222,"#7201a8"],[0.3333333333333333,"#9c179e"],[0.4444444444444444,"#bd3786"],[0.5555555555555556,"#d8576b"],[0.6666666666666666,"#ed7953"],[0.7777777777777778,"#fb9f3a"],[0.8888888888888888,"#fdca26"],[1.0,"#f0f921"]],"type":"surface"}],"table":[{"cells":{"fill":{"color":"#EBF0F8"},"line":{"color":"white"}},"header":{"fill":{"color":"#C8D4E3"},"line":{"color":"white"}},"type":"table"}]},"layout":{"annotationdefaults":{"arrowcolor":"#2a3f5f","arrowhead":0,"arrowwidth":1},"autotypenumbers":"strict","coloraxis":{"colorbar":{"outlinewidth":0,"ticks":""}},"colorscale":{"diverging":[[0,"#8e0152"],[0.1,"#c51b7d"],[0.2,"#de77ae"],[0.3,"#f1b6da"],[0.4,"#fde0ef"],[0.5,"#f7f7f7"],[0.6,"#e6f5d0"],[0.7,"#b8e186"],[0.8,"#7fbc41"],[0.9,"#4d9221"],[1,"#276419"]],"sequential":[[0.0,"#0d0887"],[0.1111111111111111,"#46039f"],[0.2222222222222222,"#7201a8"],[0.3333333333333333,"#9c179e"],[0.4444444444444444,"#bd3786"],[0.5555555555555556,"#d8576b"],[0.6666666666666666,"#ed7953"],[0.7777777777777778,"#fb9f3a"],[0.8888888888888888,"#fdca26"],[1.0,"#f0f921"]],"sequentialminus":[[0.0,"#0d0887"],[0.1111111111111111,"#46039f"],[0.2222222222222222,"#7201a8"],[0.3333333333333333,"#9c179e"],[0.4444444444444444,"#bd3786"],[0.5555555555555556,"#d8576b"],[0.6666666666666666,"#ed7953"],[0.7777777777777778,"#fb9f3a"],[0.8888888888888888,"#fdca26"],[1.0,"#f0f921"]]},"colorway":["#636efa","#EF553B","#00cc96","#ab63fa","#FFA15A","#19d3f3","#FF6692","#B6E880","#FF97FF","#FECB52"],"font":{"color":"#2a3f5f"},"geo":{"bgcolor":"white","lakecolor":"white","landcolor":"white","showlakes":true,"showland":true,"subunitcolor":"#C8D4E3"},"hoverlabel":{"align":"left"},"hovermode":"closest","paper_bgcolor":"white","plot_bgcolor":"white","polar":{"angularaxis":{"gridcolor":"#EBF0F8","linecolor":"#EBF0F8","ticks":""},"bgcolor":"white","radialaxis":{"gridcolor":"#EBF0F8","linecolor":"#EBF0F8","ticks":""}},"scene":{"xaxis":{"backgroundcolor":"white","gridcolor":"#DFE8F3","gridwidth":2,"linecolor":"#EBF0F8","showbackground":true,"ticks":"","zerolinecolor":"#EBF0F8"},"yaxis":{"backgroundcolor":"white","gridcolor":"#DFE8F3","gridwidth":2,"linecolor":"#EBF0F8","showbackground":true,"ticks":"","zerolinecolor":"#EBF0F8"},"zaxis":{"backgroundcolor":"white","gridcolor":"#DFE8F3","gridwidth":2,"linecolor":"#EBF0F8","showbackground":true,"ticks":"","zerolinecolor":"#EBF0F8"}},"shapedefaults":{"line":{"color":"#2a3f5f"}},"ternary":{"aaxis":{"gridcolor":"#DFE8F3","linecolor":"#A2B1C6","ticks":""},"baxis":{"gridcolor":"#DFE8F3","linecolor":"#A2B1C6","ticks":""},"bgcolor":"white","caxis":{"gridcolor":"#DFE8F3","linecolor":"#A2B1C6","ticks":""}},"title":{"x":0.05},"xaxis":{"automargin":true,"gridcolor":"#EBF0F8","linecolor":"#EBF0F8","ticks":"","title":{"standoff":15},"zerolinecolor":"#EBF0F8","zerolinewidth":2},"yaxis":{"automargin":true,"gridcolor":"#EBF0F8","linecolor":"#EBF0F8","ticks":"","title":{"standoff":15},"zerolinecolor":"#EBF0F8","zerolinewidth":2}}},"xaxis":{"anchor":"y","domain":[0.0,1.0],"title":{"text":"Method"}},"yaxis":{"anchor":"x","domain":[0.0,1.0],"title":{"text":"Rank (1=best)"},"autorange":"reversed"},"legend":{"title":{"text":"PCM"},"tracegroupgap":0},"title":{"text":"Uttarakhand PCM - Rank Across MCDM Methods, All Clusters (Top 5 per Cluster)"},"height":550},                        {"responsive": true}                    )                };            </script>        </div>
 </body>
 </html>
